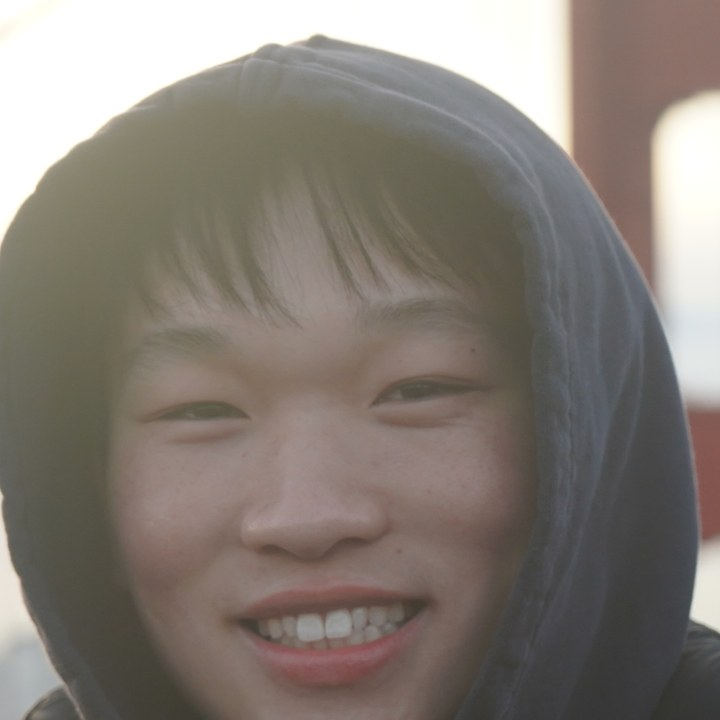
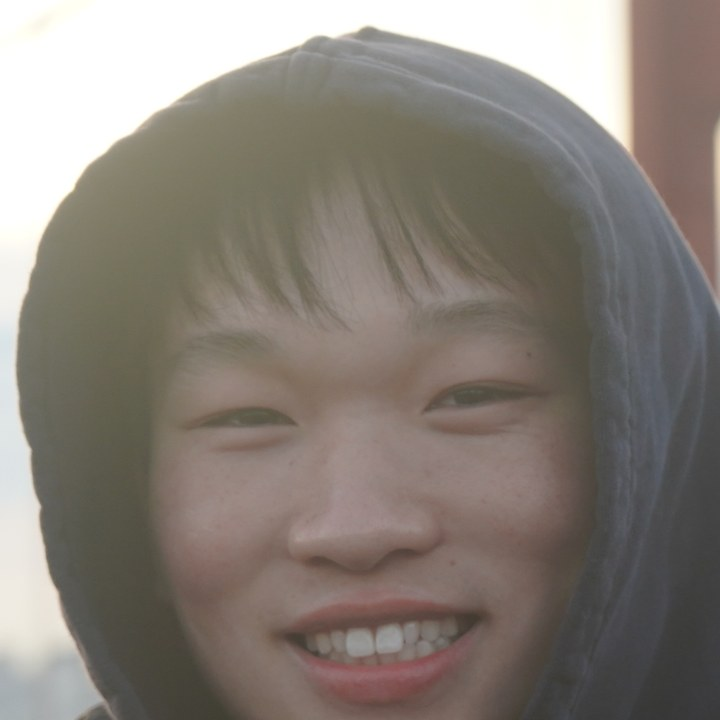
Fix iOS map interaction and recenter About portrait
Relax SF max-bounds for phone viewports, harden Leaflet sizing/touch
handling, and avoid iOS backdrop-filter touch bugs. Recenter the About
photo so the face sits in the circle.

diff --git a/src/components/Map.jsx b/src/components/Map.jsx
@@ -203,20 +203,30 @@ function Map() {
       zoom: SF_DEFAULT_ZOOM,
       minZoom: SF_MIN_ZOOM,
       maxZoom: SF_MAX_ZOOM,
+      zoomSnap: 0.25,
+      zoomDelta: 0.5,
+      wheelPxPerZoomLevel: 80,
       zoomControl: false,
       attributionControl: false,
+      // Prefer touch/drag reliability on iOS Safari
+      preferCanvas: false,
+      bounceAtZoomLimits: false,
     })
 
     // Dark basemap via Esri (no API key / no MapLibre workers).
     L.tileLayer(SF_TILE_URL, {
       maxZoom: SF_TILE_MAX_ZOOM,
       maxNativeZoom: SF_TILE_MAX_ZOOM,
+      updateWhenIdle: true,
+      keepBuffer: 2,
     }).addTo(map)
 
     L.tileLayer(SF_LABEL_TILE_URL, {
       maxZoom: SF_TILE_MAX_ZOOM,
       maxNativeZoom: SF_TILE_MAX_ZOOM,
       pane: 'overlayPane',
+      updateWhenIdle: true,
+      keepBuffer: 2,
     }).addTo(map)
 
     // No district boxes — quiet place labels only (OSM-style names).
@@ -238,15 +248,41 @@ function Map() {
       }).addTo(map)
     })
 
+    const syncSize = () => {
+      map.invalidateSize({ animate: false })
+    }
+
     map.whenReady(() => {
-      window.setTimeout(() => map.invalidateSize(), 50)
-      window.setTimeout(() => map.invalidateSize(), 300)
+      syncSize()
+      window.setTimeout(syncSize, 50)
+      window.setTimeout(syncSize, 250)
+      window.setTimeout(syncSize, 600)
+      // Frame San Francisco city specifically (not the wider Bay Area).
+      map.fitBounds(SF_VIEW_BOUNDS, {
+        padding: [24, 24],
+        maxZoom: 13,
+        animate: false,
+      })
     })
 
-    // Frame San Francisco city specifically (not the wider Bay Area).
-    map.fitBounds(SF_VIEW_BOUNDS, { padding: [20, 20], maxZoom: 13 })
     map.setMaxBounds(getSfMaxBounds())
-    map.options.maxBoundsViscosity = 0.95
+    // Softer on phones so the map doesn't feel locked/broken
+    const isCoarsePointer =
+      typeof window !== 'undefined' &&
+      window.matchMedia?.('(pointer: coarse)').matches
+    map.options.maxBoundsViscosity = isCoarsePointer ? 0.55 : 0.85
+
+    const resizeObserver =
+      typeof ResizeObserver !== 'undefined'
+        ? new ResizeObserver(() => syncSize())
+        : null
+    resizeObserver?.observe(container)
+
+    const onViewportChange = () => syncSize()
+    window.addEventListener('orientationchange', onViewportChange)
+    window.addEventListener('resize', onViewportChange)
+    window.visualViewport?.addEventListener('resize', onViewportChange)
+    window.visualViewport?.addEventListener('scroll', onViewportChange)
 
     markerByIdRef.current = {}
     if (showProjectMarkers) {
@@ -254,17 +290,23 @@ function Map() {
         const icon = L.divIcon({
           html: buildMarkerHtml(project, 'map'),
           className: 'project-marker-layer',
-          iconSize: [40, 40],
-          iconAnchor: [20, 20],
+          iconSize: [44, 44],
+          iconAnchor: [22, 22],
         })
 
         const marker = L.marker(getPointLatLng(project), {
           icon,
           zIndexOffset: project.status === 'locked' ? 900 : 1200,
+          keyboard: true,
+          riseOnHover: true,
         }).addTo(map)
 
         markerByIdRef.current[project.id] = marker
-        marker.bindPopup(buildPopupHtml(project), { maxWidth: 320 })
+        marker.bindPopup(buildPopupHtml(project), {
+          maxWidth: 320,
+          autoPan: true,
+          autoPanPadding: [48, 48],
+        })
       })
     }
 
@@ -317,6 +359,11 @@ function Map() {
     mapRef.current = map
 
     return () => {
+      resizeObserver?.disconnect()
+      window.removeEventListener('orientationchange', onViewportChange)
+      window.removeEventListener('resize', onViewportChange)
+      window.visualViewport?.removeEventListener('resize', onViewportChange)
+      window.visualViewport?.removeEventListener('scroll', onViewportChange)
       map.remove()
       mapRef.current = null
       markerByIdRef.current = {}

diff --git a/src/components/Map.css b/src/components/Map.css
@@ -11,17 +11,34 @@
 
   position: absolute;
   inset: 0;
+  width: 100%;
+  height: 100%;
   background: var(--map-bg);
   overflow: hidden;
   font-family: var(--font-sans);
   color: var(--map-text);
+  /* Critical for Leaflet drag/pinch on iOS */
+  touch-action: none;
+  -webkit-tap-highlight-color: transparent;
 }
 
 .map-container {
   position: absolute;
   inset: 0;
+  width: 100%;
+  height: 100%;
   background: var(--map-bg);
   transition: filter 0.25s ease;
+  touch-action: none;
+  z-index: 0;
+}
+
+.map-root .leaflet-container {
+  background: var(--map-bg);
+  font-family: var(--font-sans);
+  width: 100%;
+  height: 100%;
+  touch-action: none;
 }
 
 .map-root--list .map-container {
@@ -42,11 +59,6 @@
 
 .map-root--focus.map-root--geo .leaflet-tile-pane {
   filter: none;
-}
-
-.map-root .leaflet-container {
-  background: var(--map-bg);
-  font-family: var(--font-sans);
 }
 
 .map-root .leaflet-control-zoom {
@@ -429,6 +441,13 @@
 /* Shared marker: circular icon + corner badge — hero layer (Palworld-style pins) */
 .map-root .project-marker-layer {
   z-index: 1200 !important;
+  background: transparent !important;
+  border: none !important;
+}
+
+.map-root .leaflet-div-icon {
+  background: transparent;
+  border: none;
 }
 
 @keyframes map-marker-pulse {

diff --git a/src/index.css b/src/index.css
@@ -45,6 +45,13 @@
   --color-status-locked: #7a8794;
 }
 
+html,
+body {
+  height: 100%;
+  width: 100%;
+  overscroll-behavior: none;
+}
+
 body {
   margin: 0;
   font-family: var(--font-sans);
@@ -56,8 +63,19 @@ body {
 }
 
 #root {
-  min-height: 100vh;
+  height: 100%;
+  min-height: 100%;
+  min-height: 100dvh;
   background: var(--theme-bg);
+}
+
+@supports (-webkit-touch-callout: none) {
+  html,
+  body,
+  #root {
+    height: -webkit-fill-available;
+    min-height: -webkit-fill-available;
+  }
 }
 
 html.light-page,
@@ -67,15 +85,20 @@ html.light-page #root {
 }
 
 .app {
-  min-height: 100vh;
+  min-height: 100%;
+  min-height: 100dvh;
+  height: 100%;
 }
 
 .app-main {
-  min-height: 100vh;
+  min-height: 100%;
+  min-height: 100dvh;
+  height: 100%;
 }
 
 .app--light {
-  min-height: 100vh;
+  min-height: 100%;
+  min-height: 100dvh;
   background: var(--page-light-bg);
   color: var(--page-light-text-body);
 }

diff --git a/src/utils/sfGeo.js b/src/utils/sfGeo.js
@@ -15,8 +15,9 @@ export const SF_VIEW_BOUNDS = [
 ]
 
 export const SF_CENTER = { lat: 37.759, lng: -122.439 }
-export const SF_DEFAULT_ZOOM = 12.5
-export const SF_MIN_ZOOM = 12
+export const SF_DEFAULT_ZOOM = 12
+/** Allow phone viewports to fit the city without breaking maxBounds. */
+export const SF_MIN_ZOOM = 11
 export const SF_MAX_ZOOM = 18
 
 /** Dark raster tiles (no API key). Esri uses {z}/{y}/{x} order. */
@@ -74,8 +75,12 @@ export function formatGeoCoords(lat, lng, gx, gy) {
 }
 
 export function getSfMaxBounds() {
+  // Pad so small/tall phone viewports never make the world smaller than the screen
+  // (that state breaks Leaflet panning/zooming on iOS).
+  const padLat = 0.045
+  const padLng = 0.06
   return [
-    [SF_BOUNDS.south, SF_BOUNDS.west],
-    [SF_BOUNDS.north, SF_BOUNDS.east],
+    [SF_BOUNDS.south - padLat, SF_BOUNDS.west - padLng],
+    [SF_BOUNDS.north + padLat, SF_BOUNDS.east + padLng],
   ]
 }

diff --git a/src/components/Nav.css b/src/components/Nav.css
@@ -26,7 +26,13 @@
     rgba(var(--theme-bg-rgb), 0.65) 65%,
     rgba(var(--theme-bg-rgb), 0) 100%
   );
-  backdrop-filter: blur(10px);
+}
+
+/* backdrop-filter can steal touches on iOS even with pointer-events: none */
+@supports not (-webkit-touch-callout: none) {
+  .nav--map {
+    backdrop-filter: blur(10px);
+  }
 }
 
 .nav--map .nav-link {

diff --git a/src/pages/About.css b/src/pages/About.css
@@ -20,11 +20,9 @@
   border: 3px solid var(--page-light-border);
   box-shadow: 0 12px 32px var(--page-light-shadow);
   object-fit: cover;
-  object-position: center center;
-  margin-bottom: 1.35rem;
+  object-position: 50% 42%;
+  margin: 0 auto 1.35rem;
   display: block;
-  margin-left: auto;
-  margin-right: auto;
 }
 
 .about-content h1 {

diff --git a/src/pages/Home.css b/src/pages/Home.css
@@ -1,4 +1,16 @@
 .home {
   position: fixed;
   inset: 0;
+  width: 100%;
+  height: 100%;
+  height: 100dvh;
+  overflow: hidden;
+  /* Avoid iOS Safari touch quirks with nested scroll containers */
+  touch-action: manipulation;
+}
+
+@supports (-webkit-touch-callout: none) {
+  .home {
+    height: -webkit-fill-available;
+  }
 }
